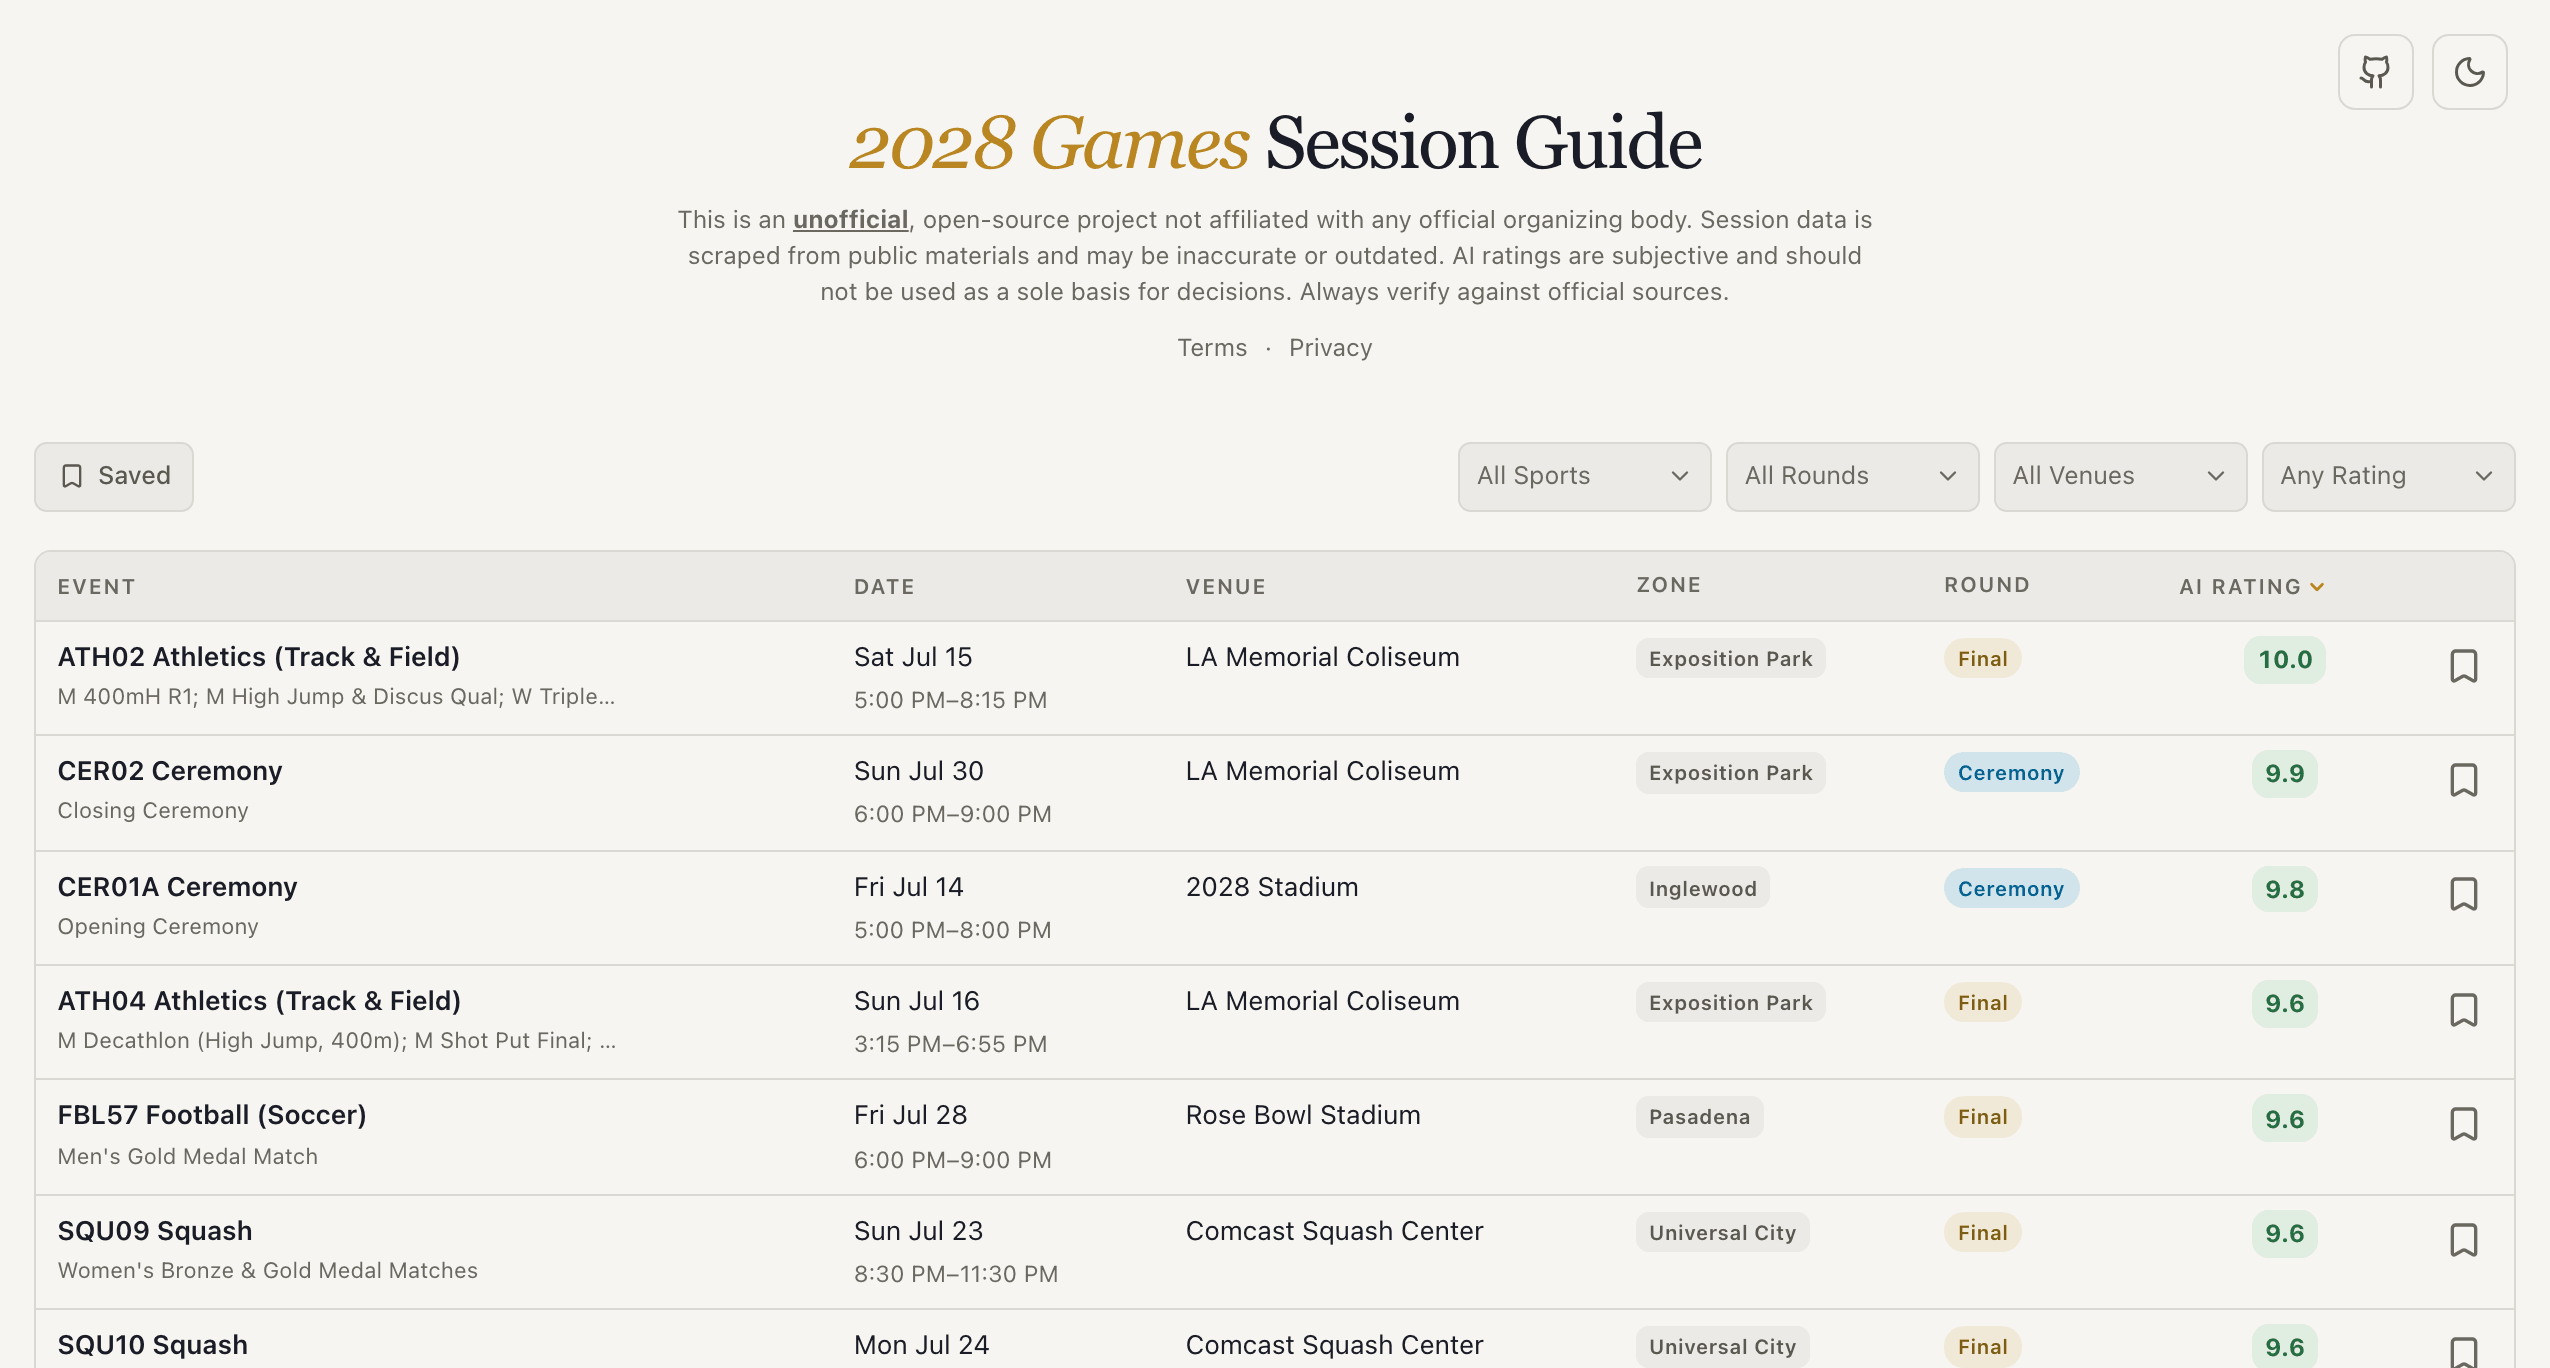
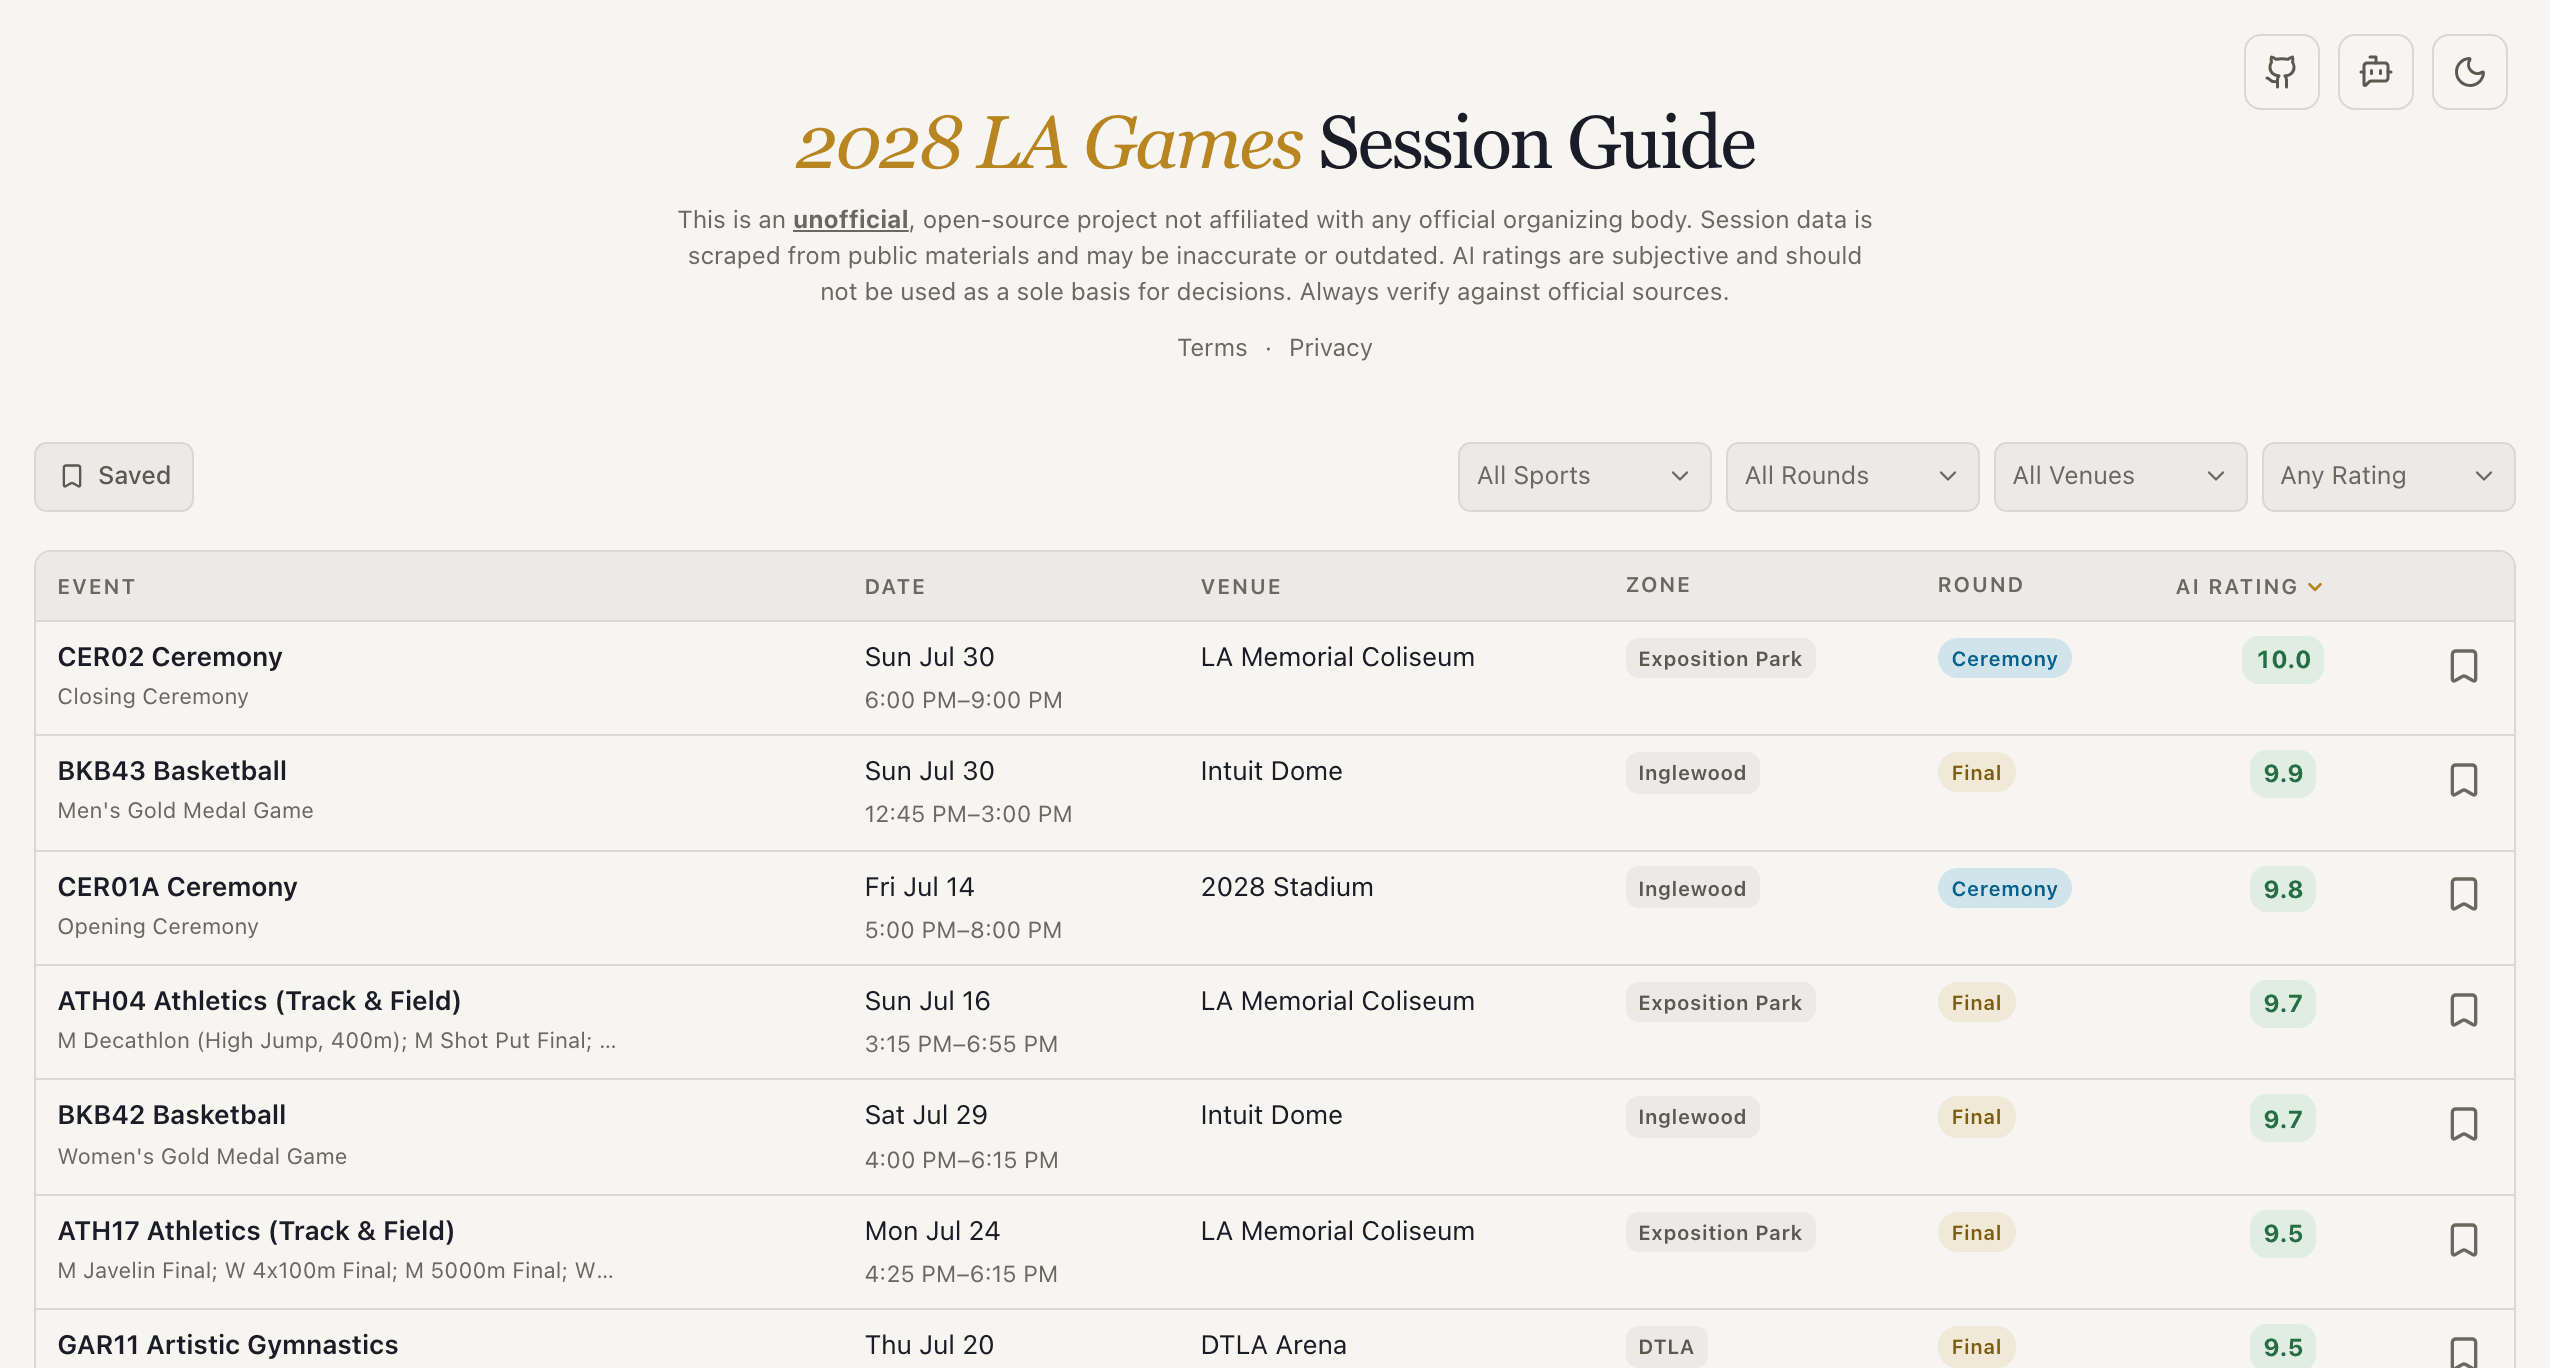
feat(nav): change the headline to 2028 LA Games Session Guide (#240)
## Summary

The home page headline now reads "2028 LA Games Session Guide" instead
of "2028 Games Session Guide", so the host city is in the first thing a
visitor reads. The unofficial disclaimer directly under it is unchanged.

- Only the visible `<h1>` in `Nav.tsx` changes. The site name used for
page titles, meta tags, the manifest and `llms.txt` stays "2028 Games
Session Guide".
- "Session Guide" is kept together with `whitespace-nowrap`, so on phone
widths the headline breaks after "Games" ("2028 LA Games" / "Session
Guide") instead of leaving "Guide" alone on the second line. It stays on
one line on desktop.
- `screenshot.png` is recaptured from a local production build.

diff --git a/src/components/Nav.tsx b/src/components/Nav.tsx
@@ -78,7 +78,8 @@ export function Nav() {
         <ThemeToggle className={headerButtonClass} />
       </div>
       <h1 className="font-display relative mb-1.5 text-[2.2rem] leading-[1.1] font-normal -tracking-[0.03em] max-md:text-[1.6rem]">
-        <em className="text-gold italic">2028 Games</em> Session Guide
+        <em className="text-gold italic">2028 LA Games</em>{' '}
+        <span className="whitespace-nowrap">Session Guide</span>
       </h1>
       <p className="text-ink3 relative mx-auto mt-2 max-w-[600px] text-[0.72rem] leading-normal font-normal max-md:px-2">
         This is an{' '}
